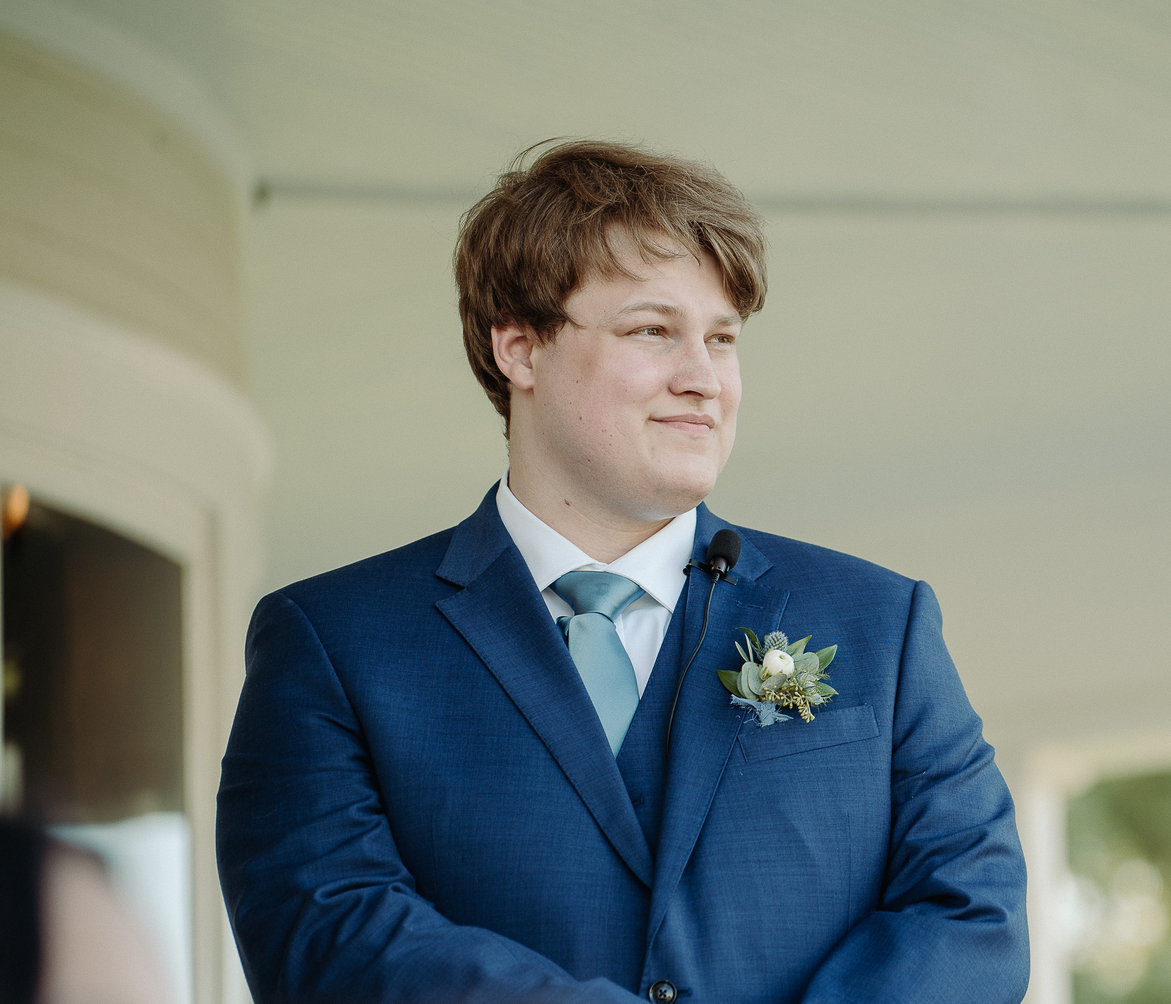
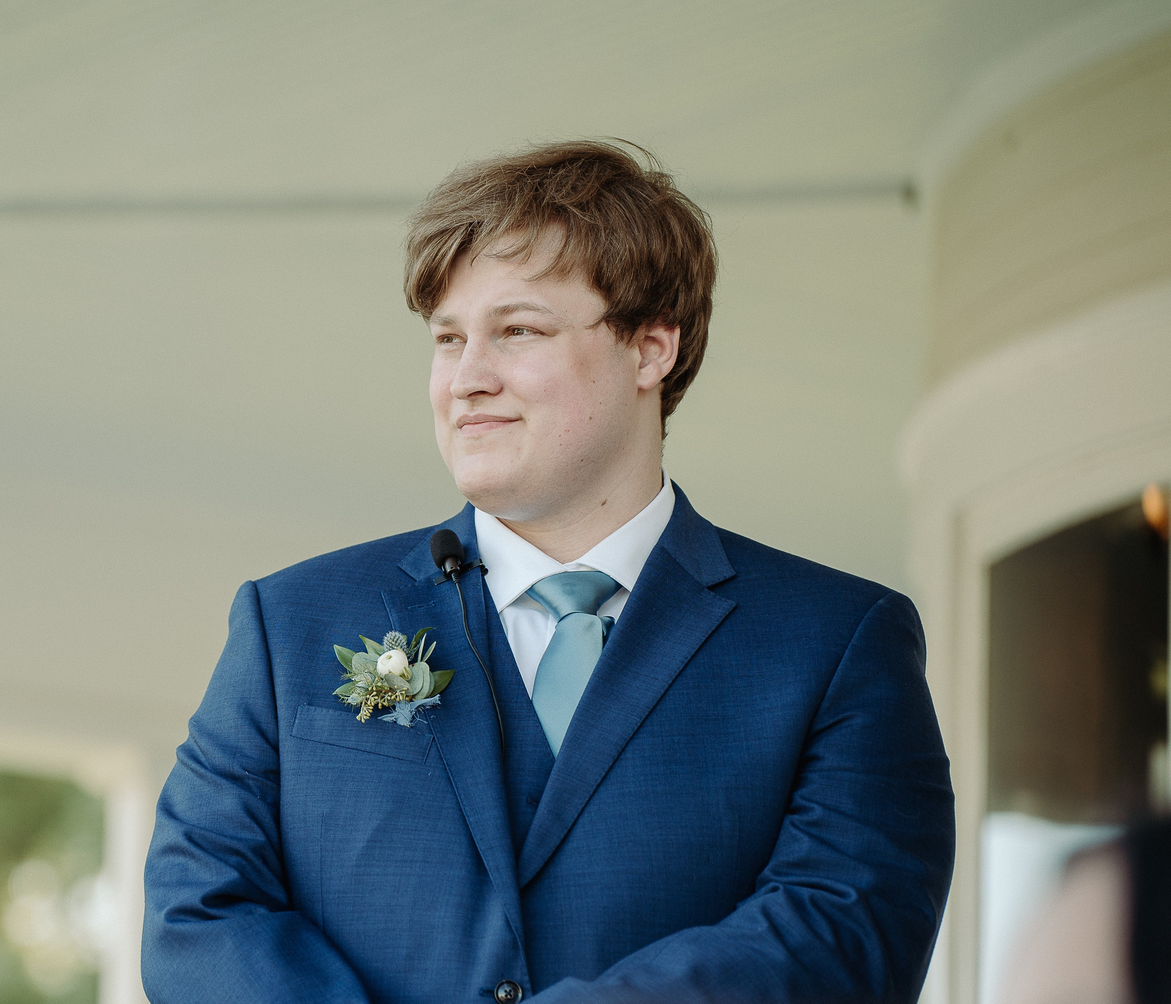
update image

diff --git a/index.html b/index.html
@@ -19,7 +19,7 @@
 
 		<section id="home">
 		  <h1>Welcome to my homepage!</h1>
-		  				<img src="nick.jpg" alt="Example Image" width="100" height="200">
+		  				<img src="nick.jpg" alt="Example Image" width="100" height="150" style="float: right; margin: 10px;>
 		  <p>Here is some information about me.</p>
 		</section>
 		<section>
